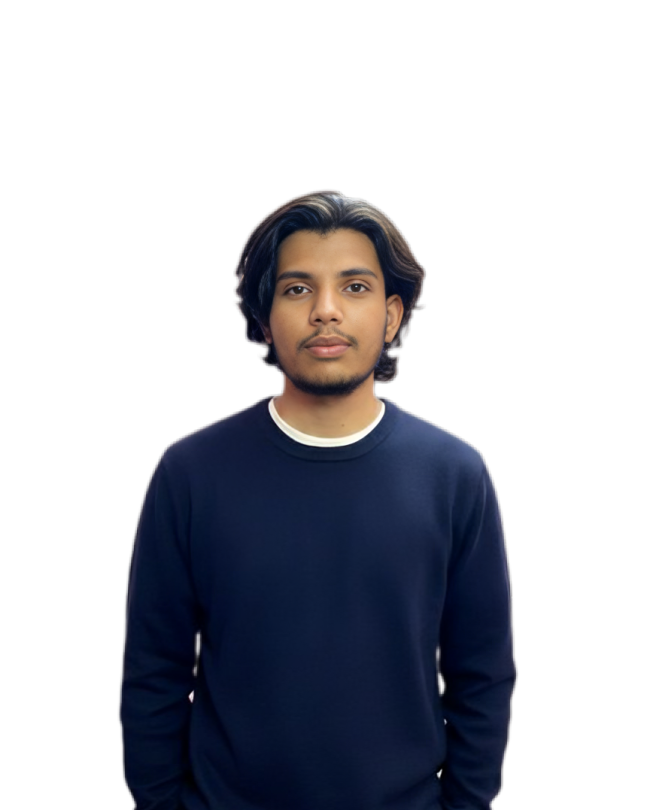
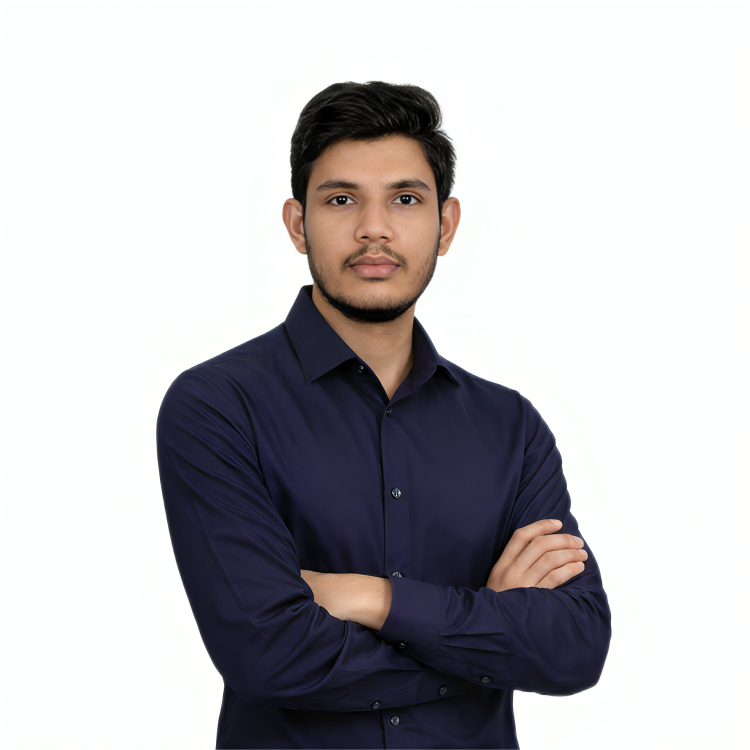
Change in profile and resume in home page

Changed region(s): [[0.1838, 0.092, 0.827, 1.0]]

diff --git a/index.html b/index.html
@@ -68,7 +68,7 @@
 
 
 
-        <a href="https://drive.google.com/file/d/1On1kW3SiGyQLU5NAqZ6iVeJf5BMI5yG6/view?usp=sharing" target="_blank"
+        <a href="https://drive.google.com/file/d/1lDHHNkj4pCGDnRNnbwz7u4VAV9epn6mn/view?usp=sharing" target="_blank"
           class="button button-resume">Resume</a>
 
         <a href="about.html" class="button">

diff --git a/styles.css b/styles.css
@@ -302,7 +302,7 @@ img {
   object-fit: cover;
   border-radius: 2rem;
   z-index: 10;
-  border: 2px solid var(--first-color);
+  border: 3px solid var(--first-color);
   background: var(--body-color);
 }
 
